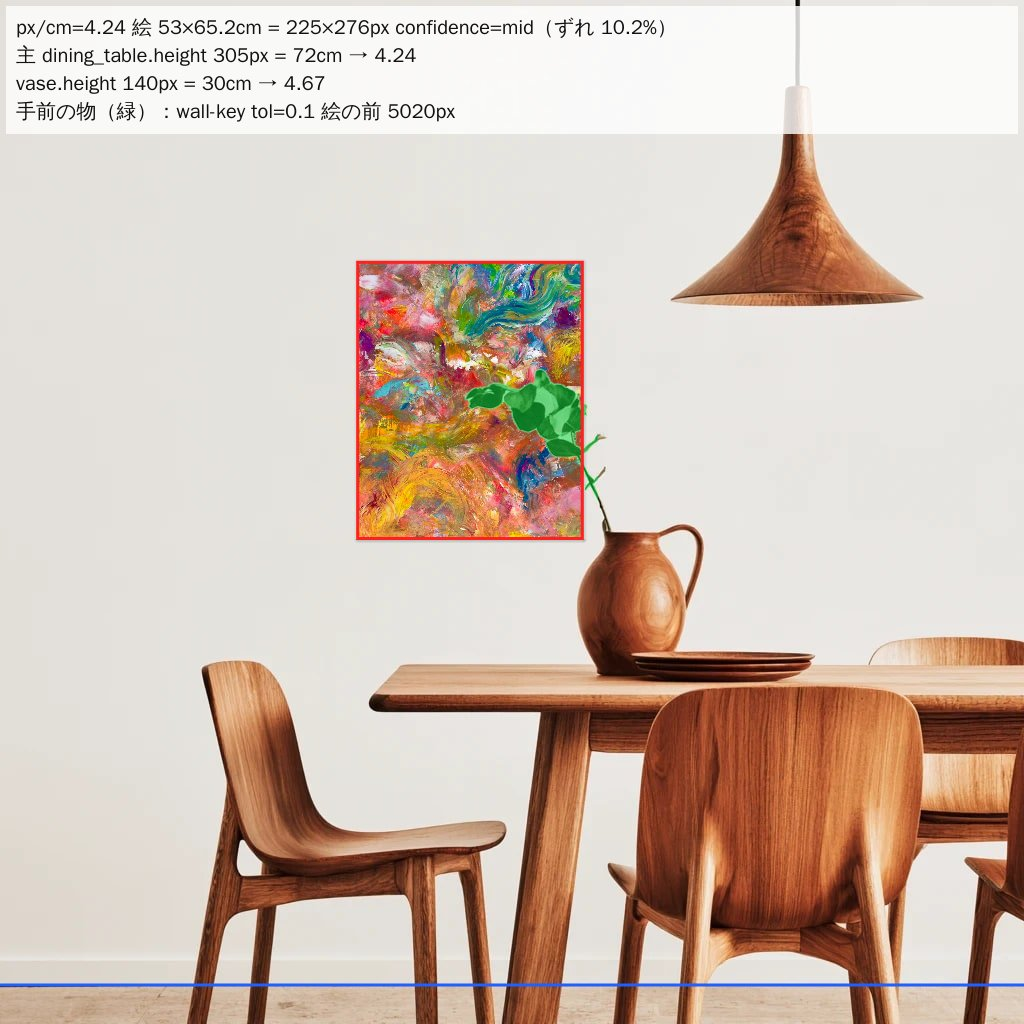
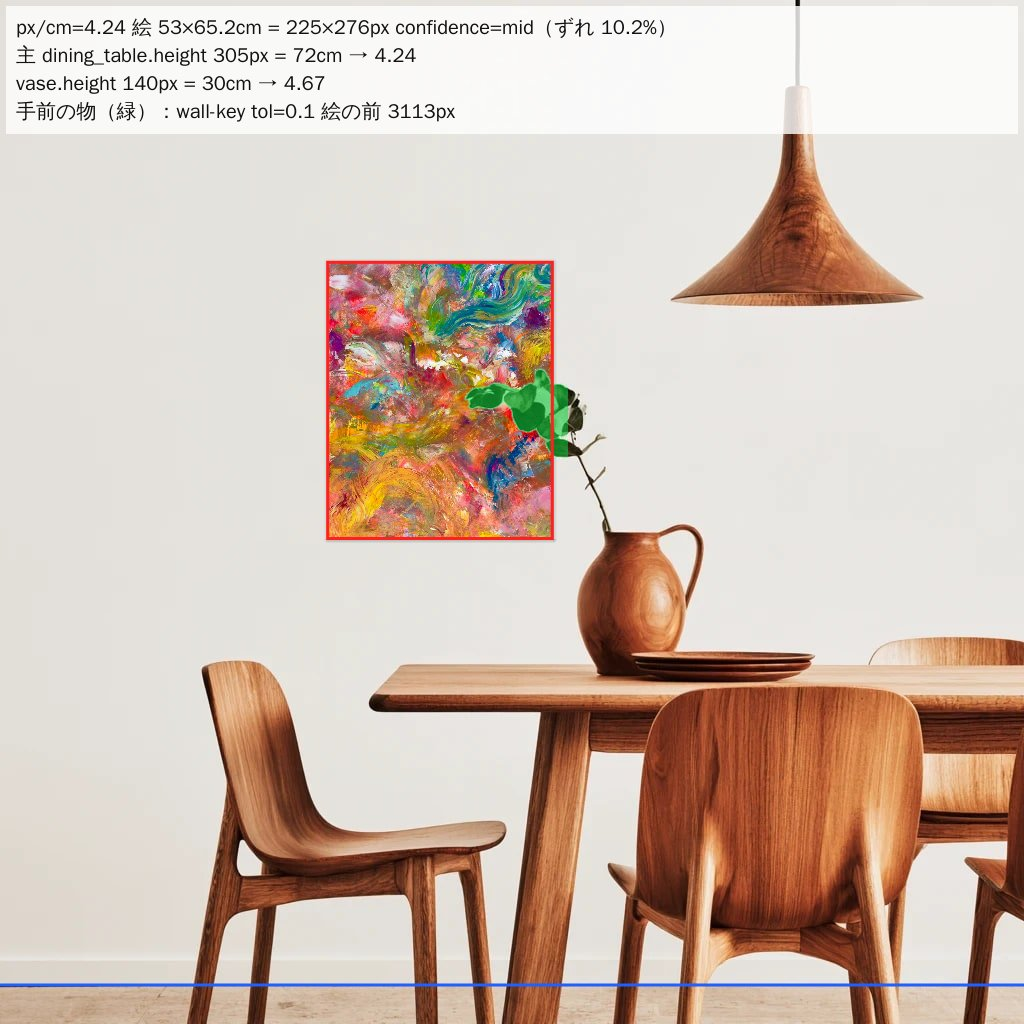
絵の置き所：家具の上に掛けるときは家具の上端の画素 + 20cm で下端を決める（ローボードの部屋で 62cm 浮いていた。ソファの部屋も浮いていた）。ダイニングの寄りは少し左へ
Claude-Session: https://claude.ai/code/session_01XUan4pssoFYGDFEPeyow14

Changed region(s): [[0.3125, 0.25, 0.5938, 0.5312], [0.375, 0.0938, 0.4375, 0.125]]

diff --git a/scripts/generate/rooms.js b/scripts/generate/rooms.js
@@ -81,11 +81,25 @@ export function paintingRectFromScale(def, sizeCm, imageWidthPx) {
   const pxPerCm = def.scale.px_per_cm * k;
   const w = sizeCm[0] * pxPerCm, h = sizeCm[1] * pxPerCm;
   const cx = def.hang.x_px * k;
-  // 掛ける高さ：中心（立って見る壁 145cm など）か、下端（家具の上端 + 20cm）のどちらかで指定
-  const centerCm = def.hang.center_from_floor_cm ?? (def.hang.bottom_from_floor_cm + sizeCm[1] / 2);
-  const cy = def.hang.floor_y_px * k - centerCm * pxPerCm;
+  // 掛ける高さ：3 通り。(a) 家具の上端の画素 furniture_top_y_px から gap_cm（既定 20）上に下端（家具が壁より手前でも、床の線の読み違いでもずれない。家具の上に掛けるときはこれ）
+  // (b) 下端 bottom_from_floor_cm（床の線から）、(c) 中心 center_from_floor_cm（立って見る壁 145cm など）
+  let cy;
+  if (def.hang.furniture_top_y_px != null) cy = def.hang.furniture_top_y_px * k - (def.hang.gap_cm ?? 20) * pxPerCm - h / 2;
+  else {
+    const centerCm = def.hang.center_from_floor_cm ?? (def.hang.bottom_from_floor_cm + sizeCm[1] / 2);
+    cy = def.hang.floor_y_px * k - centerCm * pxPerCm;
+  }
   const x0 = cx - w / 2, x1 = cx + w / 2, y0 = cy - h / 2, y1 = cy + h / 2;
   return [[x0, y0], [x1, y0], [x1, y1], [x0, y1]];
+}
+
+// 絵の中心の床からの高さ（cm）。文章用。家具の上端で決めたときは、置いた位置と床の線から逆算する
+// quad と pxPerCm は実際に使う画像幅（k 倍）で揃っていること。k は def.image_width_px に対する比率
+export function hangCenterCm(def, sizeCm, quad, pxPerCm, k = 1) {
+  if (def.hang.center_from_floor_cm != null) return def.hang.center_from_floor_cm;
+  if (def.hang.bottom_from_floor_cm != null) return Math.round(def.hang.bottom_from_floor_cm + sizeCm[1] / 2);
+  const cy = (quad[0][1] + quad[2][1]) / 2;
+  return Math.round((def.hang.floor_y_px * k - cy) / pxPerCm);
 }
 
 // ---- 手前の物と絵の前後（docs/SIZE_UX.md 11 節）----
@@ -482,7 +496,7 @@ export async function compositeRooms({ root, work, paintingPath, outDir }) {
 
     // 顧客向けの文章（ja / en。他の言語は index.js で翻訳キャッシュから）
     const texts = def.references?.length
-      ? roomTexts({ references: def.references, table, sizeCm: work.size_cm, confidence: sc.confidence, wallWidthCm, centerFromFloorCm: def.hang.center_from_floor_cm ?? Math.round(def.hang.bottom_from_floor_cm + work.size_cm[1] / 2), aboveFurniture: def.hang.bottom_from_floor_cm != null })
+      ? roomTexts({ references: def.references, table, sizeCm: work.size_cm, confidence: sc.confidence, wallWidthCm, centerFromFloorCm: hangCenterCm(def, work.size_cm, quad, pxPerCm, scale), aboveFurniture: def.hang.bottom_from_floor_cm != null || def.hang.furniture_top_y_px != null })
       : { compare: null, compare2: null, about: null, note: null, primary_ref: null };
 
     results.push({

diff --git a/docs/PLACEMENT.md b/docs/PLACEMENT.md
@@ -55,5 +55,5 @@
 
 ## 5. 縮尺と高さに反映すること
 
-- `hang.center_from_floor_cm`：立って見る壁 145、座って見る場所 138、家具の上は「家具の上端 + 20 cm = 絵の下端」から中心を計算（`hang.above_furniture_top_cm` を足し、`generate` が中心を計算）
+- `hang.center_from_floor_cm`：立って見る壁 145、座って見る場所 138。家具の上に掛けるときは **`hang.furniture_top_y_px`（家具の上端の画素）+ `gap_cm`（既定 20）** で下端を決める（11-04 変更：床の線から cm で決めると、家具が壁より手前のときや床の線の読み違いで浮いて見えた。ローボードの部屋で 62 cm 浮いていた）。`bottom_from_floor_cm` も残す
 - `rooms/REFERENCES.json`：`door_interior` 200（枠 202）、`door_interior_old` 185、`ceiling` 240、`ceiling_old` 230、`sofa_2seat` 高さ 80 / 幅 160、`shoe_cabinet` 高さ 90、`sideboard` 高さ 80、`dining_table` 高さ 72、`bed_single` 幅 100 / マットレス上端 50、`headboard` 高さ 90
